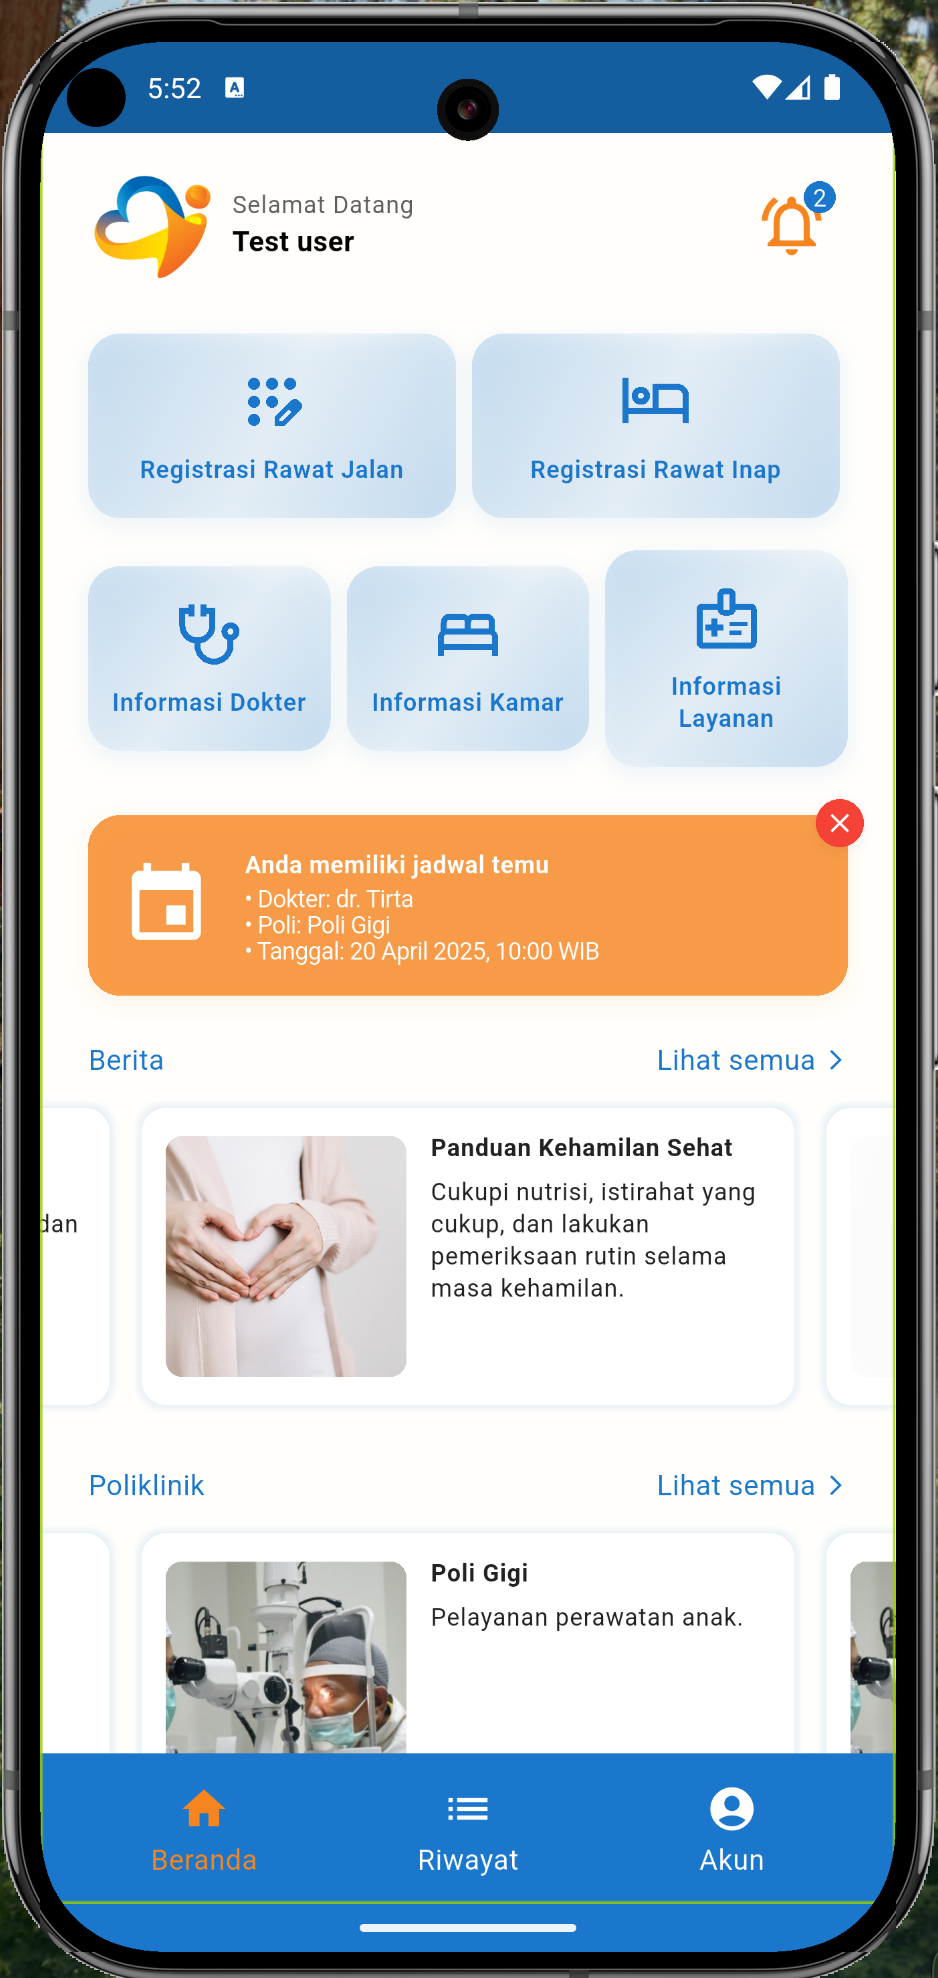
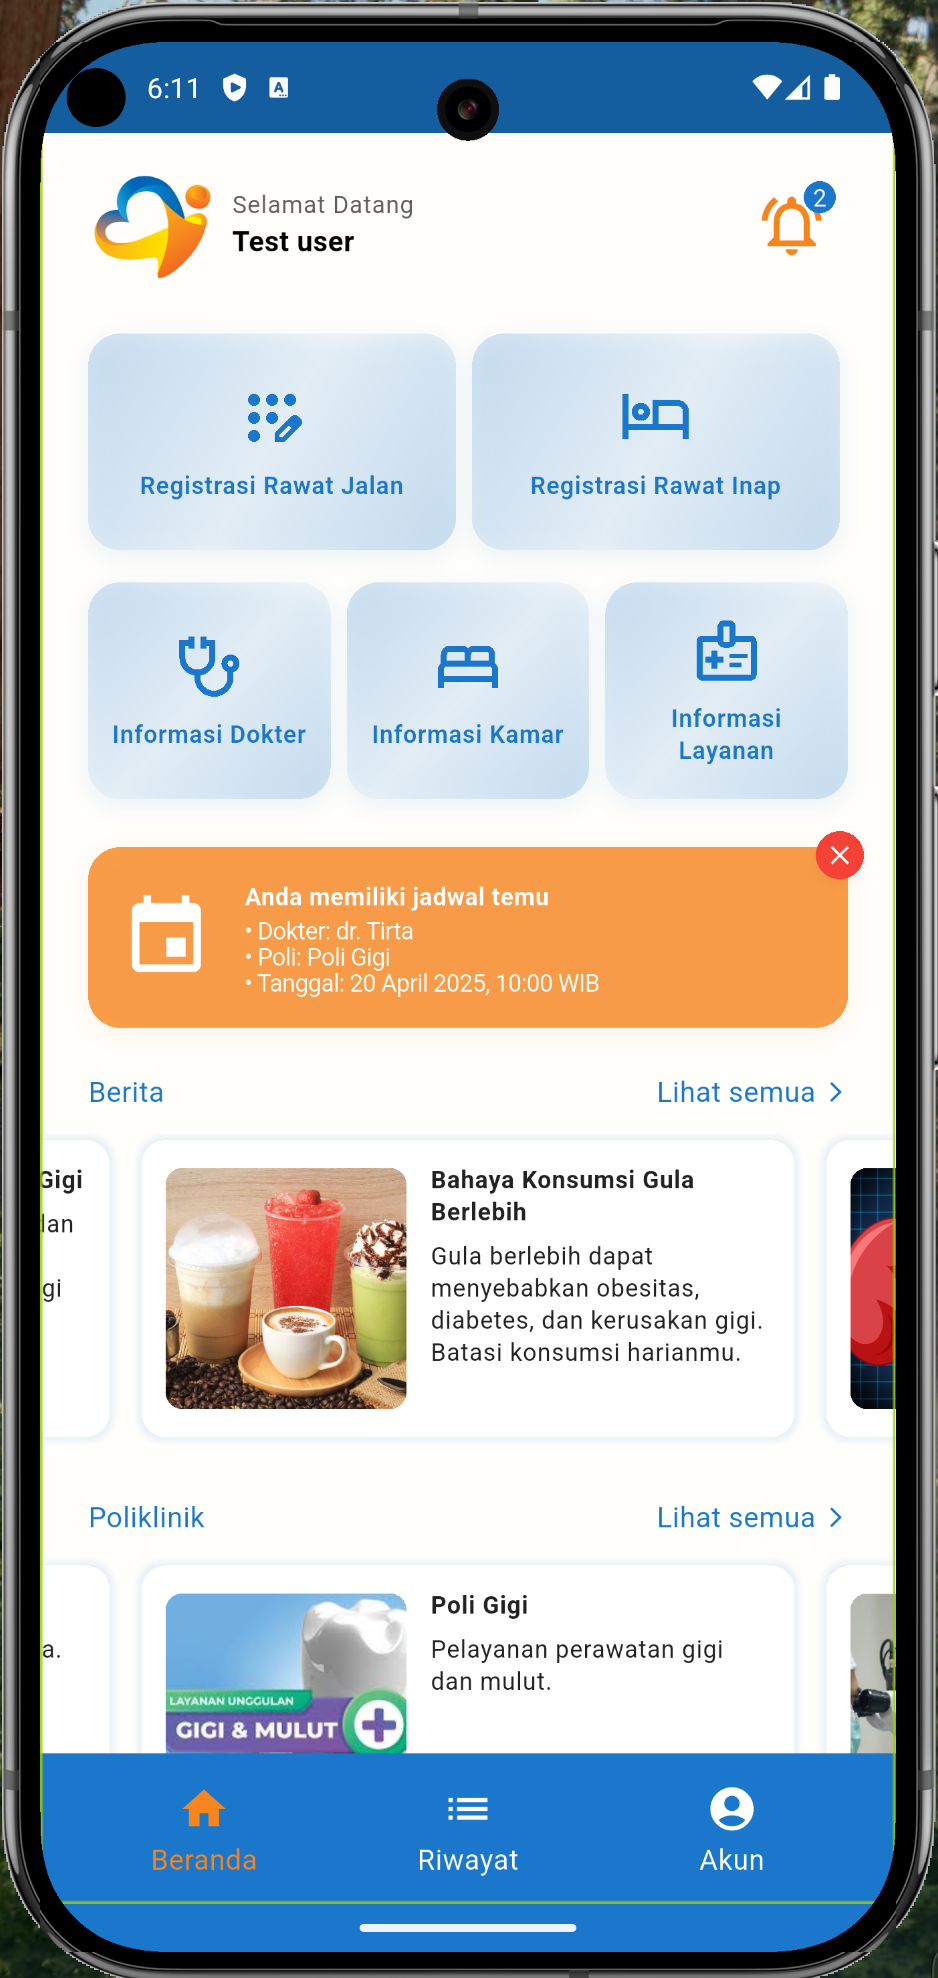
fix overflow home page

diff --git a/lib/modules/home/view/card_feature_widget.dart b/lib/modules/home/view/card_feature_widget.dart
@@ -24,6 +24,7 @@ class CardFeature extends StatelessWidget {
     return InkWell(
       onTap: onTap,
       child: Container(
+        height: 108,
         width: effectiveWidth,
         padding: const EdgeInsets.symmetric(vertical: 16, horizontal: 12),
         decoration: BoxDecoration(
@@ -53,6 +54,8 @@ class CardFeature extends StatelessWidget {
             const SizedBox(height: 8),
             Text(
               title,
+              maxLines: 2,
+              overflow: TextOverflow.ellipsis,
               textAlign: TextAlign.center,
               style: AppFont.smallPrimary(
                 context,
